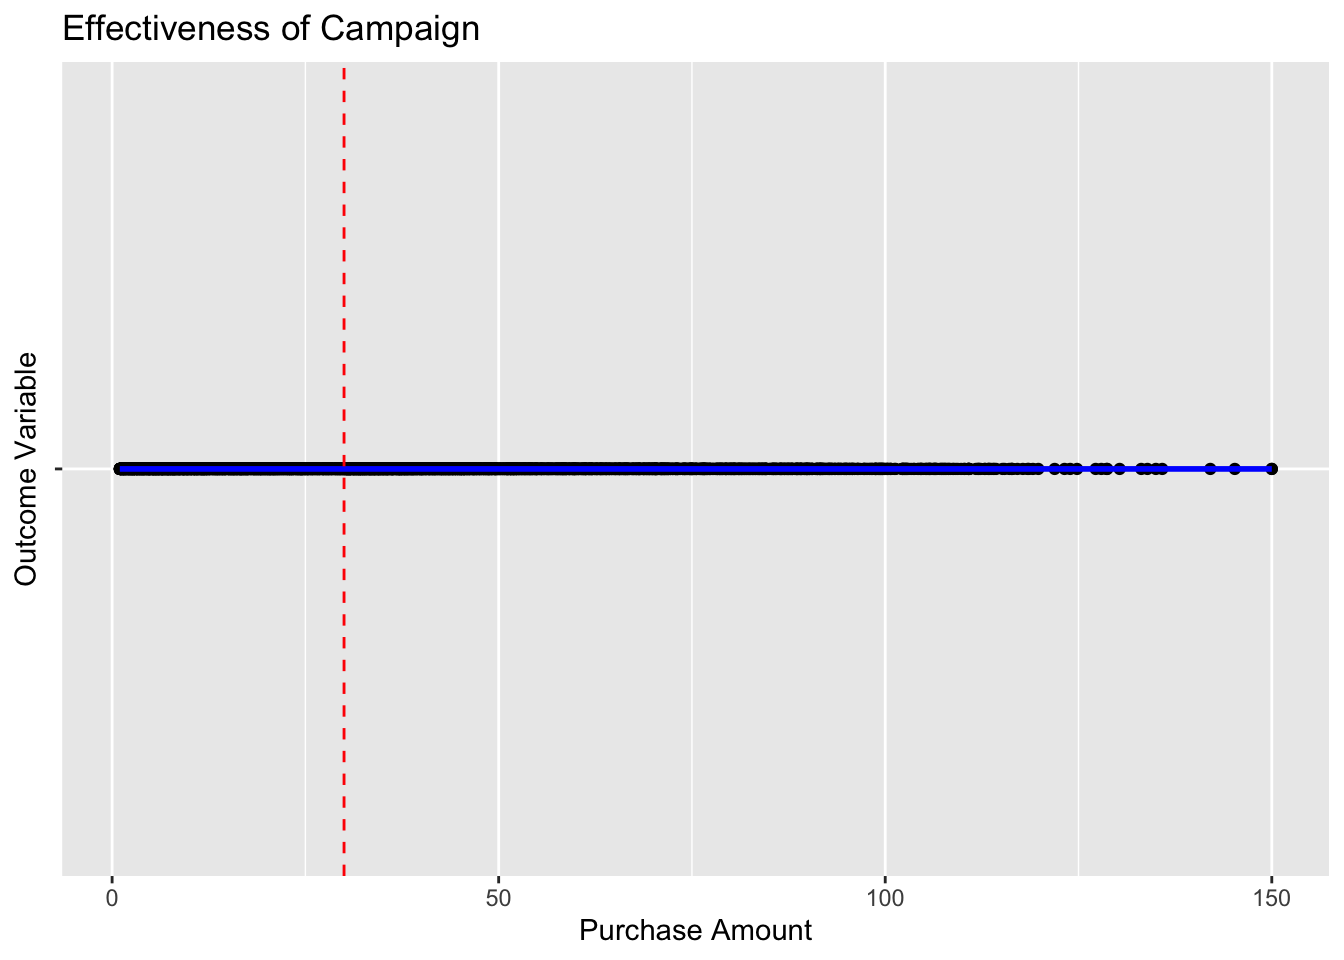
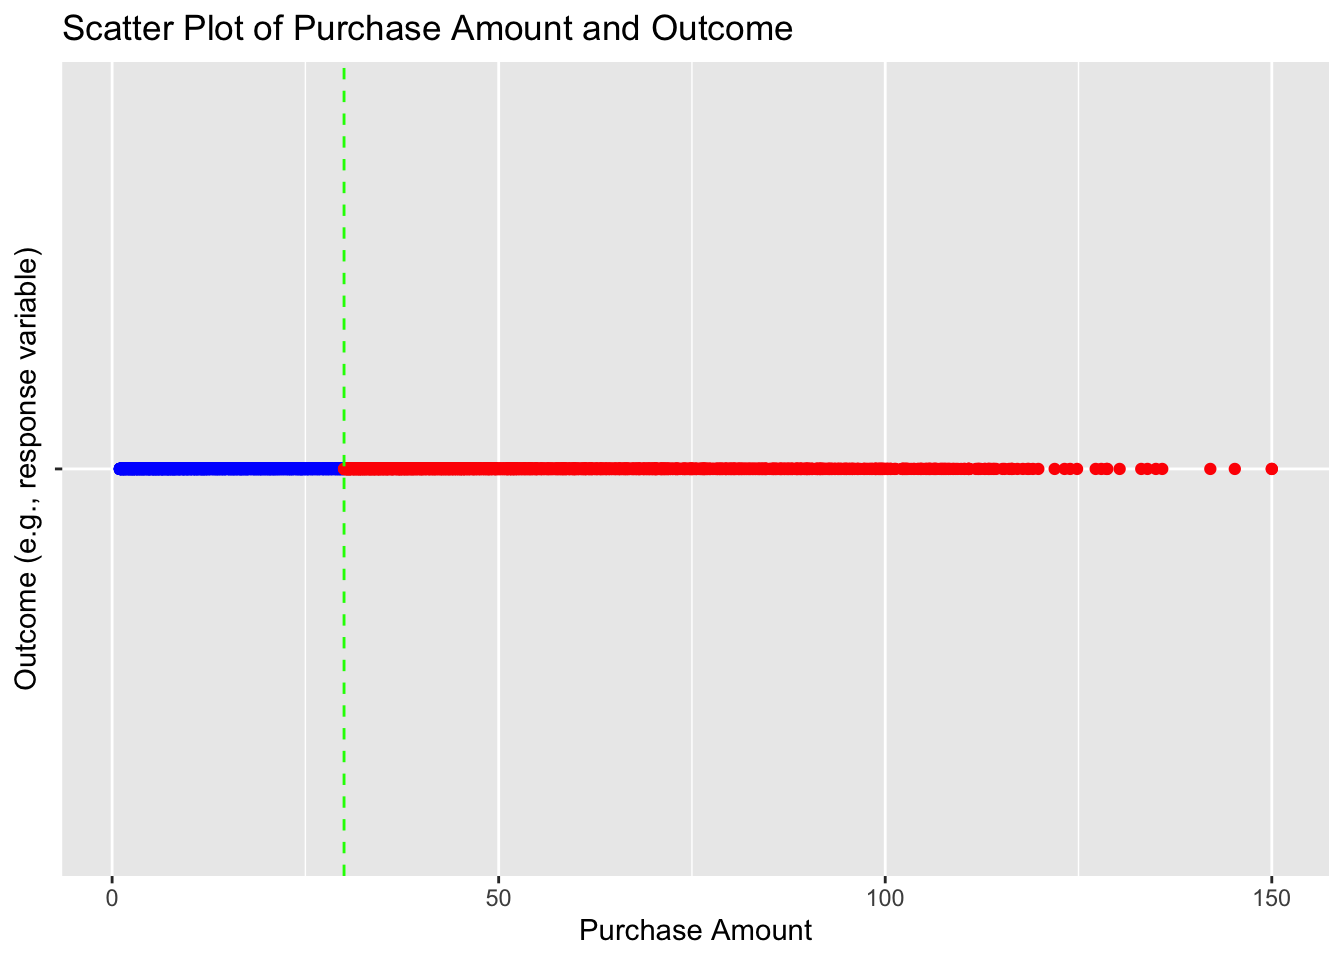
-

Changed region(s): [[0.0312, 0.0, 0.5938, 0.0625], [0.0625, 0.4688, 0.9688, 0.5], [0.0, 0.25, 0.0312, 0.7188]]

diff --git a/_site/content/01_journal/10_rdd.html b/_site/content/01_journal/10_rdd.html
@@ -195,24 +195,23 @@ pre > code.sourceCode > span > a:first-child::before { text-decoration: underlin
 
 
 
-<div class="cell" data-hash="10_rdd_cache/html/unnamed-chunk-1_f5596b563bc64503536d009da895c054">
+<div class="cell" data-hash="10_rdd_cache/html/unnamed-chunk-1_7877b5757f2951d30522aa8f4a541fb5">
 <div class="sourceCode cell-code" id="cb1"><pre class="sourceCode numberSource r number-lines code-with-copy"><code class="sourceCode r"><span id="cb1-1"><a href="#cb1-1"></a><span class="fu">library</span>(tidyverse)</span>
 <span id="cb1-2"><a href="#cb1-2"></a></span>
 <span id="cb1-3"><a href="#cb1-3"></a><span class="co"># Load data</span></span>
 <span id="cb1-4"><a href="#cb1-4"></a>coupon_data <span class="ot">&lt;-</span> <span class="fu">readRDS</span>(<span class="st">"coupon.rds"</span>)</span>
-<span id="cb1-5"><a href="#cb1-5"></a></span>
+<span id="cb1-5"><a href="#cb1-5"></a>shipping_data <span class="ot">&lt;-</span> <span class="fu">readRDS</span>(<span class="st">"shipping.rds"</span>)</span>
 <span id="cb1-6"><a href="#cb1-6"></a></span>
-<span id="cb1-7"><a href="#cb1-7"></a>shipping_data <span class="ot">&lt;-</span> <span class="fu">readRDS</span>(<span class="st">"shipping.rds"</span>)</span>
-<span id="cb1-8"><a href="#cb1-8"></a></span>
-<span id="cb1-9"><a href="#cb1-9"></a><span class="co"># Explore the structure of the shipping dataset</span></span>
-<span id="cb1-10"><a href="#cb1-10"></a><span class="fu">str</span>(shipping_data)</span></code><button title="Copy to Clipboard" class="code-copy-button"><i class="bi"></i></button></pre></div>
+<span id="cb1-7"><a href="#cb1-7"></a><span class="co"># Explore the structure of the shipping dataset</span></span>
+<span id="cb1-8"><a href="#cb1-8"></a><span class="fu">str</span>(shipping_data)</span></code><button title="Copy to Clipboard" class="code-copy-button"><i class="bi"></i></button></pre></div>
 <div class="cell-output cell-output-stdout">
 <pre><code>#&gt; tibble [6,666 × 1] (S3: tbl_df/tbl/data.frame)
 #&gt;  $ purchase_amount: num [1:6666] 13.11 37.12 11.26 9.45 53.24 ...</code></pre>
 </div>
-<div class="sourceCode cell-code" id="cb3"><pre class="sourceCode numberSource r number-lines code-with-copy"><code class="sourceCode r"><span id="cb3-1"><a href="#cb3-1"></a><span class="fu">ggplot</span>(shipping_data, <span class="fu">aes</span>(<span class="at">x =</span> purchase_amount)) <span class="sc">+</span></span>
-<span id="cb3-2"><a href="#cb3-2"></a>  <span class="fu">geom_histogram</span>(<span class="at">binwidth =</span> <span class="dv">5</span>, <span class="at">fill =</span> <span class="st">"skyblue"</span>, <span class="at">color =</span> <span class="st">"black"</span>) <span class="sc">+</span></span>
-<span id="cb3-3"><a href="#cb3-3"></a>  <span class="fu">labs</span>(<span class="at">title =</span> <span class="st">"Distribution of Purchase Amount"</span>, <span class="at">x =</span> <span class="st">"Purchase Amount"</span>, <span class="at">y =</span> <span class="st">"Frequency"</span>)</span></code><button title="Copy to Clipboard" class="code-copy-button"><i class="bi"></i></button></pre></div>
+<div class="sourceCode cell-code" id="cb3"><pre class="sourceCode numberSource r number-lines code-with-copy"><code class="sourceCode r"><span id="cb3-1"><a href="#cb3-1"></a><span class="co"># Plotting the distribution of purchase_amount</span></span>
+<span id="cb3-2"><a href="#cb3-2"></a><span class="fu">ggplot</span>(shipping_data, <span class="fu">aes</span>(<span class="at">x =</span> purchase_amount)) <span class="sc">+</span></span>
+<span id="cb3-3"><a href="#cb3-3"></a>  <span class="fu">geom_histogram</span>(<span class="at">binwidth =</span> <span class="dv">5</span>, <span class="at">fill =</span> <span class="st">"skyblue"</span>, <span class="at">color =</span> <span class="st">"black"</span>) <span class="sc">+</span></span>
+<span id="cb3-4"><a href="#cb3-4"></a>  <span class="fu">labs</span>(<span class="at">title =</span> <span class="st">"Distribution of Purchase Amount"</span>, <span class="at">x =</span> <span class="st">"Purchase Amount"</span>, <span class="at">y =</span> <span class="st">"Frequency"</span>)</span></code><button title="Copy to Clipboard" class="code-copy-button"><i class="bi"></i></button></pre></div>
 <div class="cell-output-display">
 <div class="quarto-figure quarto-figure-center">
 <figure class="figure">
@@ -220,23 +219,28 @@ pre > code.sourceCode > span > a:first-child::before { text-decoration: underlin
 </figure>
 </div>
 </div>
-<div class="sourceCode cell-code" id="cb4"><pre class="sourceCode numberSource r number-lines code-with-copy"><code class="sourceCode r"><span id="cb4-1"><a href="#cb4-1"></a>rd_analysis <span class="ot">&lt;-</span> <span class="cf">function</span>(data, bandwidth) {</span>
-<span id="cb4-2"><a href="#cb4-2"></a>  model <span class="ot">&lt;-</span> <span class="fu">lm</span>(purchase_after <span class="sc">~</span> <span class="fu">as.numeric</span>(days_since_last_centered) <span class="sc">+</span> <span class="fu">factor</span>(coupon),</span>
-<span id="cb4-3"><a href="#cb4-3"></a>               <span class="at">data =</span> data <span class="sc">%&gt;%</span> <span class="fu">filter</span>(<span class="fu">abs</span>(days_since_last_centered) <span class="sc">&lt;=</span> bandwidth))</span>
-<span id="cb4-4"><a href="#cb4-4"></a>  <span class="fu">summary</span>(model)</span>
-<span id="cb4-5"><a href="#cb4-5"></a>}</span>
-<span id="cb4-6"><a href="#cb4-6"></a></span>
-<span id="cb4-7"><a href="#cb4-7"></a><span class="co"># Run the analysis with different bandwidths</span></span>
-<span id="cb4-8"><a href="#cb4-8"></a>original_result <span class="ot">&lt;-</span> <span class="fu">rd_analysis</span>(coupon_data, <span class="at">bandwidth =</span> <span class="dv">20</span>)</span>
-<span id="cb4-9"><a href="#cb4-9"></a>half_bandwidth_result <span class="ot">&lt;-</span> <span class="fu">rd_analysis</span>(coupon_data, <span class="at">bandwidth =</span> <span class="dv">10</span>)</span>
-<span id="cb4-10"><a href="#cb4-10"></a>double_bandwidth_result <span class="ot">&lt;-</span> <span class="fu">rd_analysis</span>(coupon_data, <span class="at">bandwidth =</span> <span class="dv">40</span>)</span>
-<span id="cb4-11"><a href="#cb4-11"></a></span>
-<span id="cb4-12"><a href="#cb4-12"></a><span class="co"># Print the results</span></span>
-<span id="cb4-13"><a href="#cb4-13"></a><span class="fu">print</span>(<span class="st">"Original Bandwidth:"</span>)</span></code><button title="Copy to Clipboard" class="code-copy-button"><i class="bi"></i></button></pre></div>
+<div class="sourceCode cell-code" id="cb4"><pre class="sourceCode numberSource r number-lines code-with-copy"><code class="sourceCode r"><span id="cb4-1"><a href="#cb4-1"></a><span class="co"># Regression Discontinuity Design (RDD) Analysis Function</span></span>
+<span id="cb4-2"><a href="#cb4-2"></a>rd_analysis <span class="ot">&lt;-</span> <span class="cf">function</span>(data, bandwidth) {</span>
+<span id="cb4-3"><a href="#cb4-3"></a>  model <span class="ot">&lt;-</span> <span class="fu">lm</span>(purchase_after <span class="sc">~</span> <span class="fu">as.numeric</span>(days_since_last_centered) <span class="sc">+</span> <span class="fu">factor</span>(coupon),</span>
+<span id="cb4-4"><a href="#cb4-4"></a>               <span class="at">data =</span> data <span class="sc">%&gt;%</span> <span class="fu">filter</span>(<span class="fu">abs</span>(days_since_last_centered) <span class="sc">&lt;=</span> bandwidth))</span>
+<span id="cb4-5"><a href="#cb4-5"></a>  <span class="fu">summary</span>(model)</span>
+<span id="cb4-6"><a href="#cb4-6"></a>}</span>
+<span id="cb4-7"><a href="#cb4-7"></a></span>
+<span id="cb4-8"><a href="#cb4-8"></a><span class="co"># Run the analysis with different bandwidths for the coupon campaign</span></span>
+<span id="cb4-9"><a href="#cb4-9"></a>original_result <span class="ot">&lt;-</span> <span class="fu">rd_analysis</span>(coupon_data, <span class="at">bandwidth =</span> <span class="dv">20</span>)</span>
+<span id="cb4-10"><a href="#cb4-10"></a>half_bandwidth_result <span class="ot">&lt;-</span> <span class="fu">rd_analysis</span>(coupon_data, <span class="at">bandwidth =</span> <span class="dv">10</span>)</span>
+<span id="cb4-11"><a href="#cb4-11"></a>double_bandwidth_result <span class="ot">&lt;-</span> <span class="fu">rd_analysis</span>(coupon_data, <span class="at">bandwidth =</span> <span class="dv">40</span>)</span>
+<span id="cb4-12"><a href="#cb4-12"></a></span>
+<span id="cb4-13"><a href="#cb4-13"></a><span class="co"># Print the results for the coupon campaign</span></span>
+<span id="cb4-14"><a href="#cb4-14"></a><span class="fu">cat</span>(<span class="st">"Coupon Campaign Results:</span><span class="sc">\n</span><span class="st">"</span>)</span></code><button title="Copy to Clipboard" class="code-copy-button"><i class="bi"></i></button></pre></div>
 <div class="cell-output cell-output-stdout">
-<pre><code>#&gt; [1] "Original Bandwidth:"</code></pre>
+<pre><code>#&gt; Coupon Campaign Results:</code></pre>
 </div>
-<div class="sourceCode cell-code" id="cb6"><pre class="sourceCode numberSource r number-lines code-with-copy"><code class="sourceCode r"><span id="cb6-1"><a href="#cb6-1"></a><span class="fu">print</span>(original_result)</span></code><button title="Copy to Clipboard" class="code-copy-button"><i class="bi"></i></button></pre></div>
+<div class="sourceCode cell-code" id="cb6"><pre class="sourceCode numberSource r number-lines code-with-copy"><code class="sourceCode r"><span id="cb6-1"><a href="#cb6-1"></a><span class="fu">cat</span>(<span class="st">"Original Bandwidth:</span><span class="sc">\n</span><span class="st">"</span>)</span></code><button title="Copy to Clipboard" class="code-copy-button"><i class="bi"></i></button></pre></div>
+<div class="cell-output cell-output-stdout">
+<pre><code>#&gt; Original Bandwidth:</code></pre>
+</div>
+<div class="sourceCode cell-code" id="cb8"><pre class="sourceCode numberSource r number-lines code-with-copy"><code class="sourceCode r"><span id="cb8-1"><a href="#cb8-1"></a><span class="fu">print</span>(original_result)</span></code><button title="Copy to Clipboard" class="code-copy-button"><i class="bi"></i></button></pre></div>
 <div class="cell-output cell-output-stdout">
 <pre><code>#&gt; 
 #&gt; Call:
@@ -260,11 +264,12 @@ pre > code.sourceCode > span > a:first-child::before { text-decoration: underlin
 #&gt; Multiple R-squared:  0.7108, Adjusted R-squared:  0.7104 
 #&gt; F-statistic:  1654 on 2 and 1346 DF,  p-value: &lt; 2.2e-16</code></pre>
 </div>
-<div class="sourceCode cell-code" id="cb8"><pre class="sourceCode numberSource r number-lines code-with-copy"><code class="sourceCode r"><span id="cb8-1"><a href="#cb8-1"></a><span class="fu">print</span>(<span class="st">"Half Bandwidth:"</span>)</span></code><button title="Copy to Clipboard" class="code-copy-button"><i class="bi"></i></button></pre></div>
+<div class="sourceCode cell-code" id="cb10"><pre class="sourceCode numberSource r number-lines code-with-copy"><code class="sourceCode r"><span id="cb10-1"><a href="#cb10-1"></a><span class="fu">cat</span>(<span class="st">"</span><span class="sc">\n</span><span class="st">Half Bandwidth:</span><span class="sc">\n</span><span class="st">"</span>)</span></code><button title="Copy to Clipboard" class="code-copy-button"><i class="bi"></i></button></pre></div>
 <div class="cell-output cell-output-stdout">
-<pre><code>#&gt; [1] "Half Bandwidth:"</code></pre>
+<pre><code>#&gt; 
+#&gt; Half Bandwidth:</code></pre>
 </div>
-<div class="sourceCode cell-code" id="cb10"><pre class="sourceCode numberSource r number-lines code-with-copy"><code class="sourceCode r"><span id="cb10-1"><a href="#cb10-1"></a><span class="fu">print</span>(half_bandwidth_result)</span></code><button title="Copy to Clipboard" class="code-copy-button"><i class="bi"></i></button></pre></div>
+<div class="sourceCode cell-code" id="cb12"><pre class="sourceCode numberSource r number-lines code-with-copy"><code class="sourceCode r"><span id="cb12-1"><a href="#cb12-1"></a><span class="fu">print</span>(half_bandwidth_result)</span></code><button title="Copy to Clipboard" class="code-copy-button"><i class="bi"></i></button></pre></div>
 <div class="cell-output cell-output-stdout">
 <pre><code>#&gt; 
 #&gt; Call:
@@ -288,11 +293,12 @@ pre > code.sourceCode > span > a:first-child::before { text-decoration: underlin
 #&gt; Multiple R-squared:  0.7052, Adjusted R-squared:  0.7042 
 #&gt; F-statistic: 748.6 on 2 and 626 DF,  p-value: &lt; 2.2e-16</code></pre>
 </div>
-<div class="sourceCode cell-code" id="cb12"><pre class="sourceCode numberSource r number-lines code-with-copy"><code class="sourceCode r"><span id="cb12-1"><a href="#cb12-1"></a><span class="fu">print</span>(<span class="st">"Double Bandwidth:"</span>)</span></code><button title="Copy to Clipboard" class="code-copy-button"><i class="bi"></i></button></pre></div>
+<div class="sourceCode cell-code" id="cb14"><pre class="sourceCode numberSource r number-lines code-with-copy"><code class="sourceCode r"><span id="cb14-1"><a href="#cb14-1"></a><span class="fu">cat</span>(<span class="st">"</span><span class="sc">\n</span><span class="st">Double Bandwidth:</span><span class="sc">\n</span><span class="st">"</span>)</span></code><button title="Copy to Clipboard" class="code-copy-button"><i class="bi"></i></button></pre></div>
 <div class="cell-output cell-output-stdout">
-<pre><code>#&gt; [1] "Double Bandwidth:"</code></pre>
+<pre><code>#&gt; 
+#&gt; Double Bandwidth:</code></pre>
 </div>
-<div class="sourceCode cell-code" id="cb14"><pre class="sourceCode numberSource r number-lines code-with-copy"><code class="sourceCode r"><span id="cb14-1"><a href="#cb14-1"></a><span class="fu">print</span>(double_bandwidth_result)</span></code><button title="Copy to Clipboard" class="code-copy-button"><i class="bi"></i></button></pre></div>
+<div class="sourceCode cell-code" id="cb16"><pre class="sourceCode numberSource r number-lines code-with-copy"><code class="sourceCode r"><span id="cb16-1"><a href="#cb16-1"></a><span class="fu">print</span>(double_bandwidth_result)</span></code><button title="Copy to Clipboard" class="code-copy-button"><i class="bi"></i></button></pre></div>
 <div class="cell-output cell-output-stdout">
 <pre><code>#&gt; 
 #&gt; Call:
@@ -315,6 +321,19 @@ pre > code.sourceCode > span > a:first-child::before { text-decoration: underlin
 #&gt; Residual standard error: 3.028 on 2940 degrees of freedom
 #&gt; Multiple R-squared:  0.666,  Adjusted R-squared:  0.6658 
 #&gt; F-statistic:  2931 on 2 and 2940 DF,  p-value: &lt; 2.2e-16</code></pre>
+</div>
+<div class="sourceCode cell-code" id="cb18"><pre class="sourceCode numberSource r number-lines code-with-copy"><code class="sourceCode r"><span id="cb18-1"><a href="#cb18-1"></a><span class="co"># Argument for using purchase_amount as a running variable with a cut-off at 30€</span></span>
+<span id="cb18-2"><a href="#cb18-2"></a><span class="fu">ggplot</span>(shipping_data, <span class="fu">aes</span>(<span class="at">x =</span> purchase_amount, <span class="at">y =</span> <span class="st">""</span>)) <span class="sc">+</span></span>
+<span id="cb18-3"><a href="#cb18-3"></a>  <span class="fu">geom_point</span>(<span class="at">color =</span> <span class="fu">ifelse</span>(shipping_data<span class="sc">$</span>purchase_amount <span class="sc">&gt;</span> <span class="dv">30</span>, <span class="st">"red"</span>, <span class="st">"blue"</span>)) <span class="sc">+</span></span>
+<span id="cb18-4"><a href="#cb18-4"></a>  <span class="fu">geom_vline</span>(<span class="at">xintercept =</span> <span class="dv">30</span>, <span class="at">linetype =</span> <span class="st">"dashed"</span>, <span class="at">color =</span> <span class="st">"green"</span>) <span class="sc">+</span></span>
+<span id="cb18-5"><a href="#cb18-5"></a>  <span class="fu">labs</span>(<span class="at">title =</span> <span class="st">"Scatter Plot of Purchase Amount and Outcome"</span>,</span>
+<span id="cb18-6"><a href="#cb18-6"></a>       <span class="at">x =</span> <span class="st">"Purchase Amount"</span>, <span class="at">y =</span> <span class="st">"Outcome (e.g., response variable)"</span>)</span></code><button title="Copy to Clipboard" class="code-copy-button"><i class="bi"></i></button></pre></div>
+<div class="cell-output-display">
+<div class="quarto-figure quarto-figure-center">
+<figure class="figure">
+<p><a href="10_rdd_files/figure-html/unnamed-chunk-1-2.png" class="lightbox" data-gallery="quarto-lightbox-gallery-2"><img src="10_rdd_files/figure-html/unnamed-chunk-1-2.png" class="img-fluid figure-img" width="672"></a></p>
+</figure>
+</div>
 </div>
 </div>
 
@@ -670,7 +689,7 @@ window.document.addEventListener("DOMContentLoaded", function (event) {
 });
 </script>
 </div> <!-- /content -->
-<script>var lightboxQuarto = GLightbox({"closeEffect":"zoom","openEffect":"zoom","descPosition":"bottom","loop":true,"selector":".lightbox"});</script>
+<script>var lightboxQuarto = GLightbox({"closeEffect":"zoom","loop":true,"descPosition":"bottom","selector":".lightbox","openEffect":"zoom"});</script>
 
 
 
